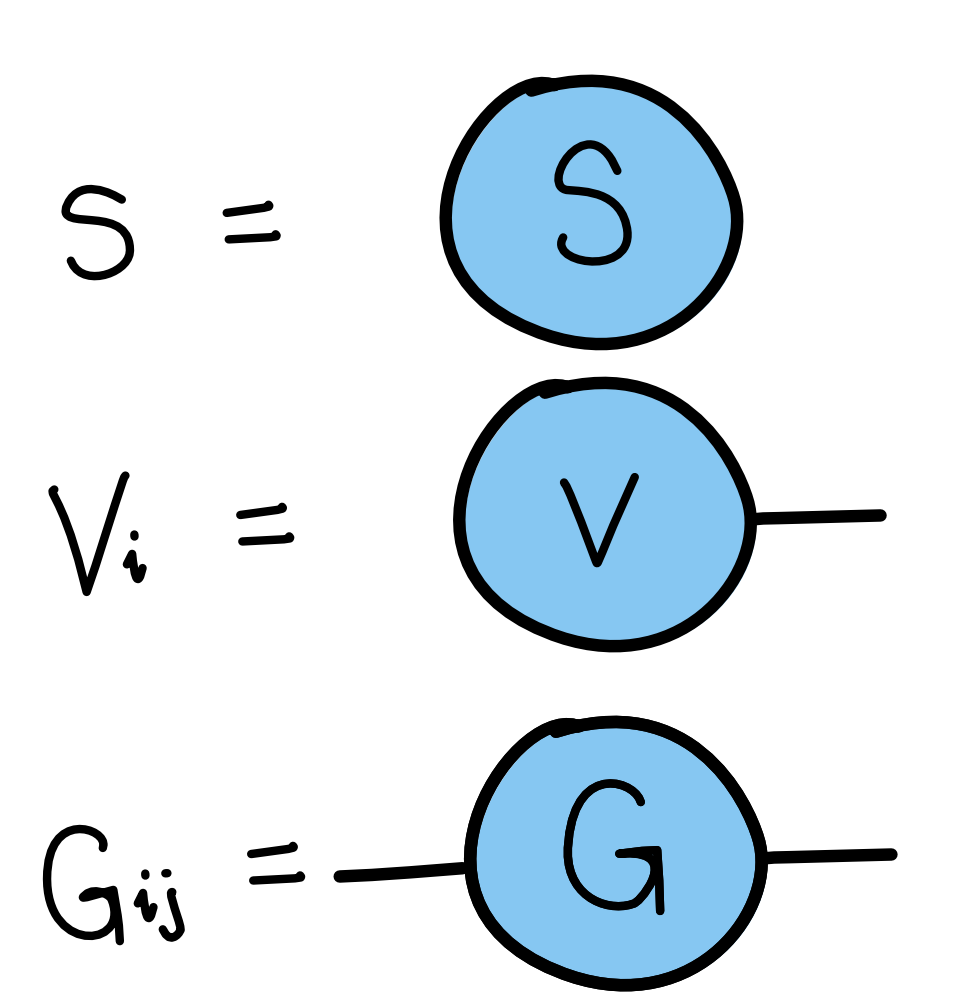
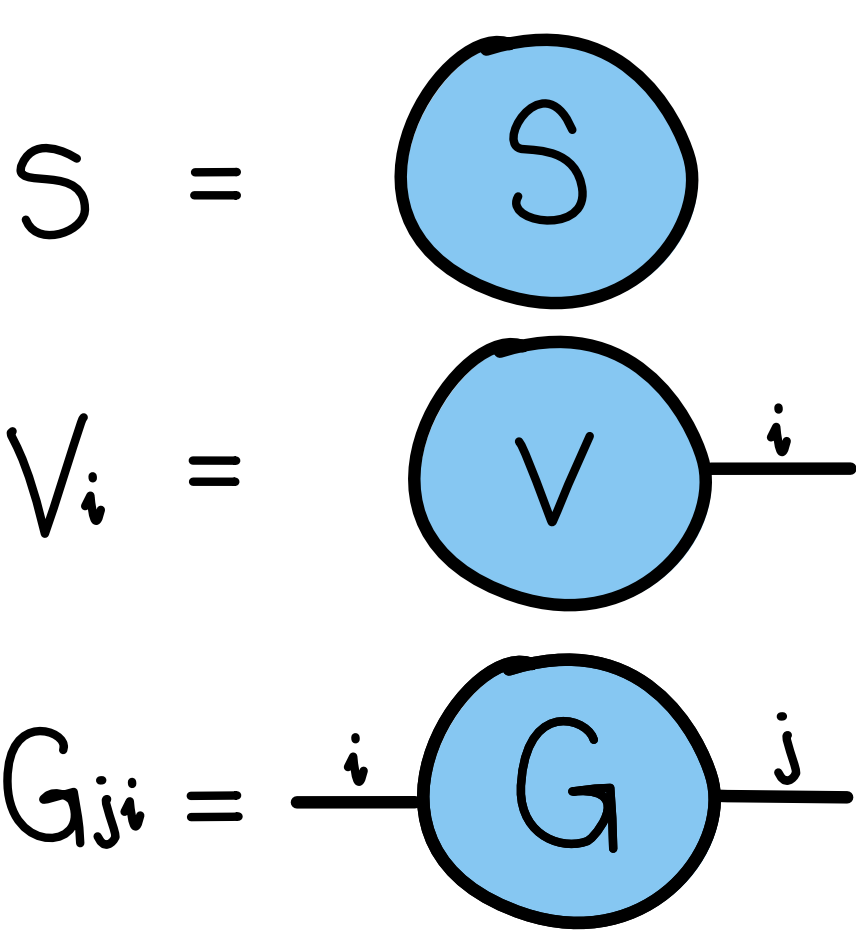
fix inconsistency in definition of matrix-matrix multiplication and matrix-vector multiplication

diff --git a/demonstrations/tutorial_tn_basics.py b/demonstrations/tutorial_tn_basics.py
@@ -92,7 +92,7 @@ print("Rank-3 tensor: \n", tensor_rank3)
 # Matrix-matrix and matrix-vector multiplications are familiar operations within the context of quantum computing. We can now study these operations through the lens of the tensor notation introduced above. First, a matrix and a vector can be multiplied as
 #
 # .. math::
-#     (w)_j = G \cdot v = \sum_i G_{i, j} v_i
+#     (w)_j = G \cdot v = \sum_i G_{j, i} v_i
 #
 # .. figure:: ../_static/demonstration_assets/tn_basics/04-matrix-vector.png
 #     :align: center
@@ -100,12 +100,12 @@ print("Rank-3 tensor: \n", tensor_rank3)
 #
 # .. note::
 #
-#   Recall we are adopting the convention of drawing a ket vector with its leg pointing right, as done in quantum circuits. In turn, this means the "input" index of a matrix —its column index— points towards the left, while the 'output' index —its row index— points to the right.
+#   Recall we are adopting the convention of drawing a ket vector with its leg pointing right, as done in quantum circuits. In turn, this means the "input" index of a matrix —its column index— points towards the left while the 'output' index —its row index— points to the right. In the example above for :math:`G_{j, i}`, the input and output indices are index :math:`i` and index :math:`j`, respectively.
 #
 # We see that summing over the shared index :math:`i` is equivalent to **contracting** the corresponding legs from the matrix and vector diagrams. As expected, the result of this multiplication is another rank-1 tensor with dangling leg :math:`j`. Similarly, we can look at the matrix-matrix multiplication:
 #
 # .. math::
-#     (G^3)_{i,k} = G^2 \cdot G^1 = \sum_j G^{1}_{i,j} G^{2}_{j,k} 
+#     (G^3)_{k,i} = G^2 \cdot G^1 = \sum_j G^{2}_{k,j} G^{1}_{j,i}
 #
 # .. figure:: ../_static/demonstration_assets/tn_basics/05-matrix-matrix.png
 #     :align: center
@@ -275,8 +275,8 @@ iterations = 20
 contraction = "np.einsum('ijk, jlm -> iklm', A, B)"
 execution_time = timeit.timeit(contraction, globals=globals(), number=iterations)
 
-average_time_ms = execution_time * 1000 / iterations
-print(f"Computation cost for AB contraction: {average_time_ms:.8f} ms")
+time_AB = execution_time * 1000 / iterations
+print(f"Computation cost for AB contraction: {time_AB:.8f} ms")
 
 ##############################################################################
 # Then, we contract the result with :math:`C`.
@@ -285,8 +285,8 @@ AB = np.einsum('ijk, jlm -> iklm', A, B)
 contraction = "np.einsum('iklm, kmn -> iln', AB, C)"
 execution_time = timeit.timeit(contraction, globals=globals(), number=iterations)
 
-average_time_ms = execution_time * 1000 / iterations
-print(f"Computation cost for (AB)C contraction: {average_time_ms:.8f} ms")
+time_ABC = execution_time * 1000 / iterations
+print(f"Computation cost for (AB)C contraction: {time_ABC:.8f} ms")
 
 ##############################################################################
 # As expected, the last contraction is much more costly than the first one. We now repeat the procedure, contracting :math:`B` and :math:`C` first. 
@@ -294,19 +294,23 @@ print(f"Computation cost for (AB)C contraction: {average_time_ms:.8f} ms")
 contraction = "np.einsum('jlm, kmn -> jlkn', B, C)"
 execution_time = timeit.timeit(contraction, globals=globals(), number=iterations)
 
-average_time_ms = execution_time * 1000 / iterations
-print(f"Computation cost for BC contraction: {average_time_ms:.8f} ms")
+time_BC = execution_time * 1000 / iterations
+print(f"Computation cost for BC contraction: {time_BC:.8f} ms")
 
 ##############################################################################
-# We see that this contraction is of the same order of magnitude as the contraction between :math:`A` and :math:`B`, as expected from the complexity analysis, since they both yield :math:`\mathcal{O}(d_i \times d_m \times d_j^2 )`. Then, we perform the contraction between the resulting tensor and :math:`A`.
+# We see that this contraction is of the same order of magnitude as the contraction between :math:`A` and :math:`B`, as expected from the complexity analysis, since they both yield :math:`\mathcal{O}(d_i \times d_m \times d_j^2 ) = \mathcal{O}(10^7)`. Then, we perform the contraction between the resulting tensor and :math:`A`.
 
 BC = np.einsum('jlm, kmn -> jlkn', B, C)
 
 contraction = "np.einsum('ijk, jlkn -> iln', A, BC)"
 execution_time = timeit.timeit(contraction, globals=globals(), number=iterations)
 
-average_time_ms = execution_time * 1000 / iterations
-print(f"Computation cost for A(BC) contraction: {average_time_ms:.8f} ms")
+time_BCA = execution_time * 1000 / iterations
+print(f"Computation cost for A(BC) contraction: {time_BCA:.8f} ms")
+
+print(f"Computation cost for path 1: {time_AB + time_ABC}")
+print(f"Computation cost for path 2: {time_BC + time_BCA}")
+
 
 ##############################################################################
 # From this, we see that the second contraction path results in a lower complexity compared to the first one, just as we expected! 💪
